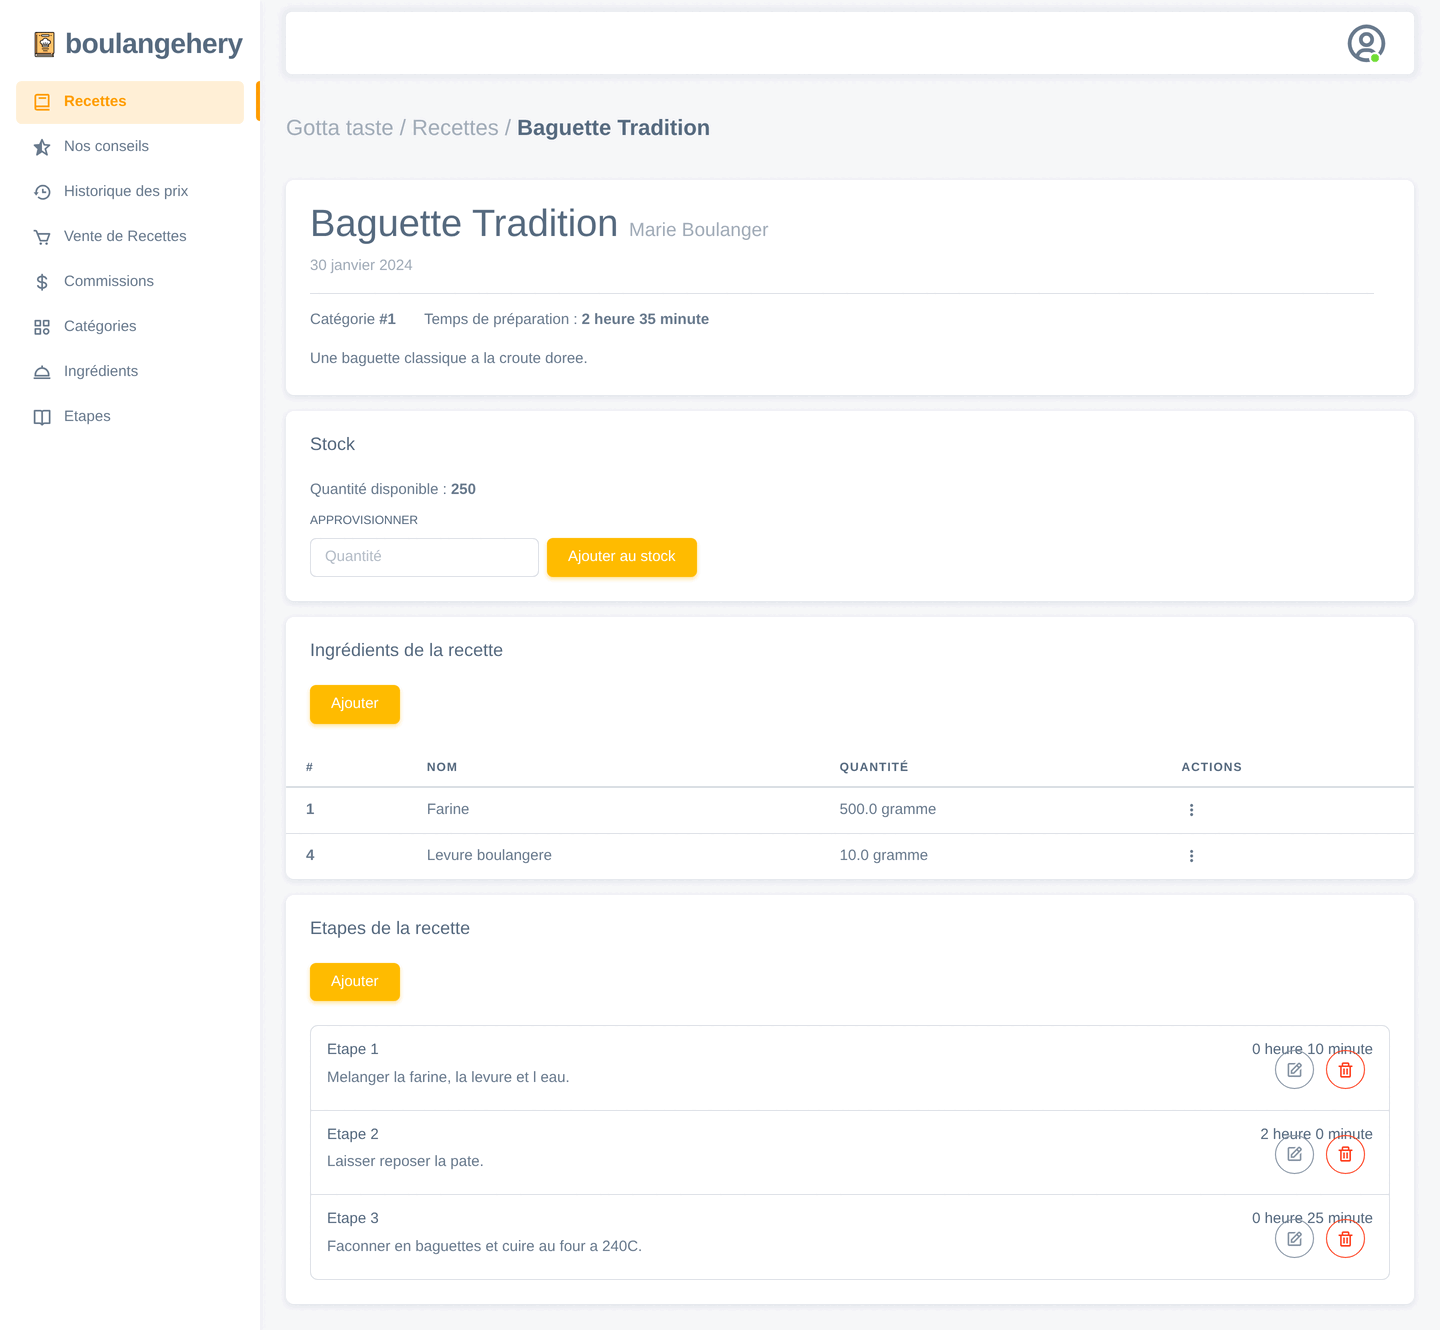
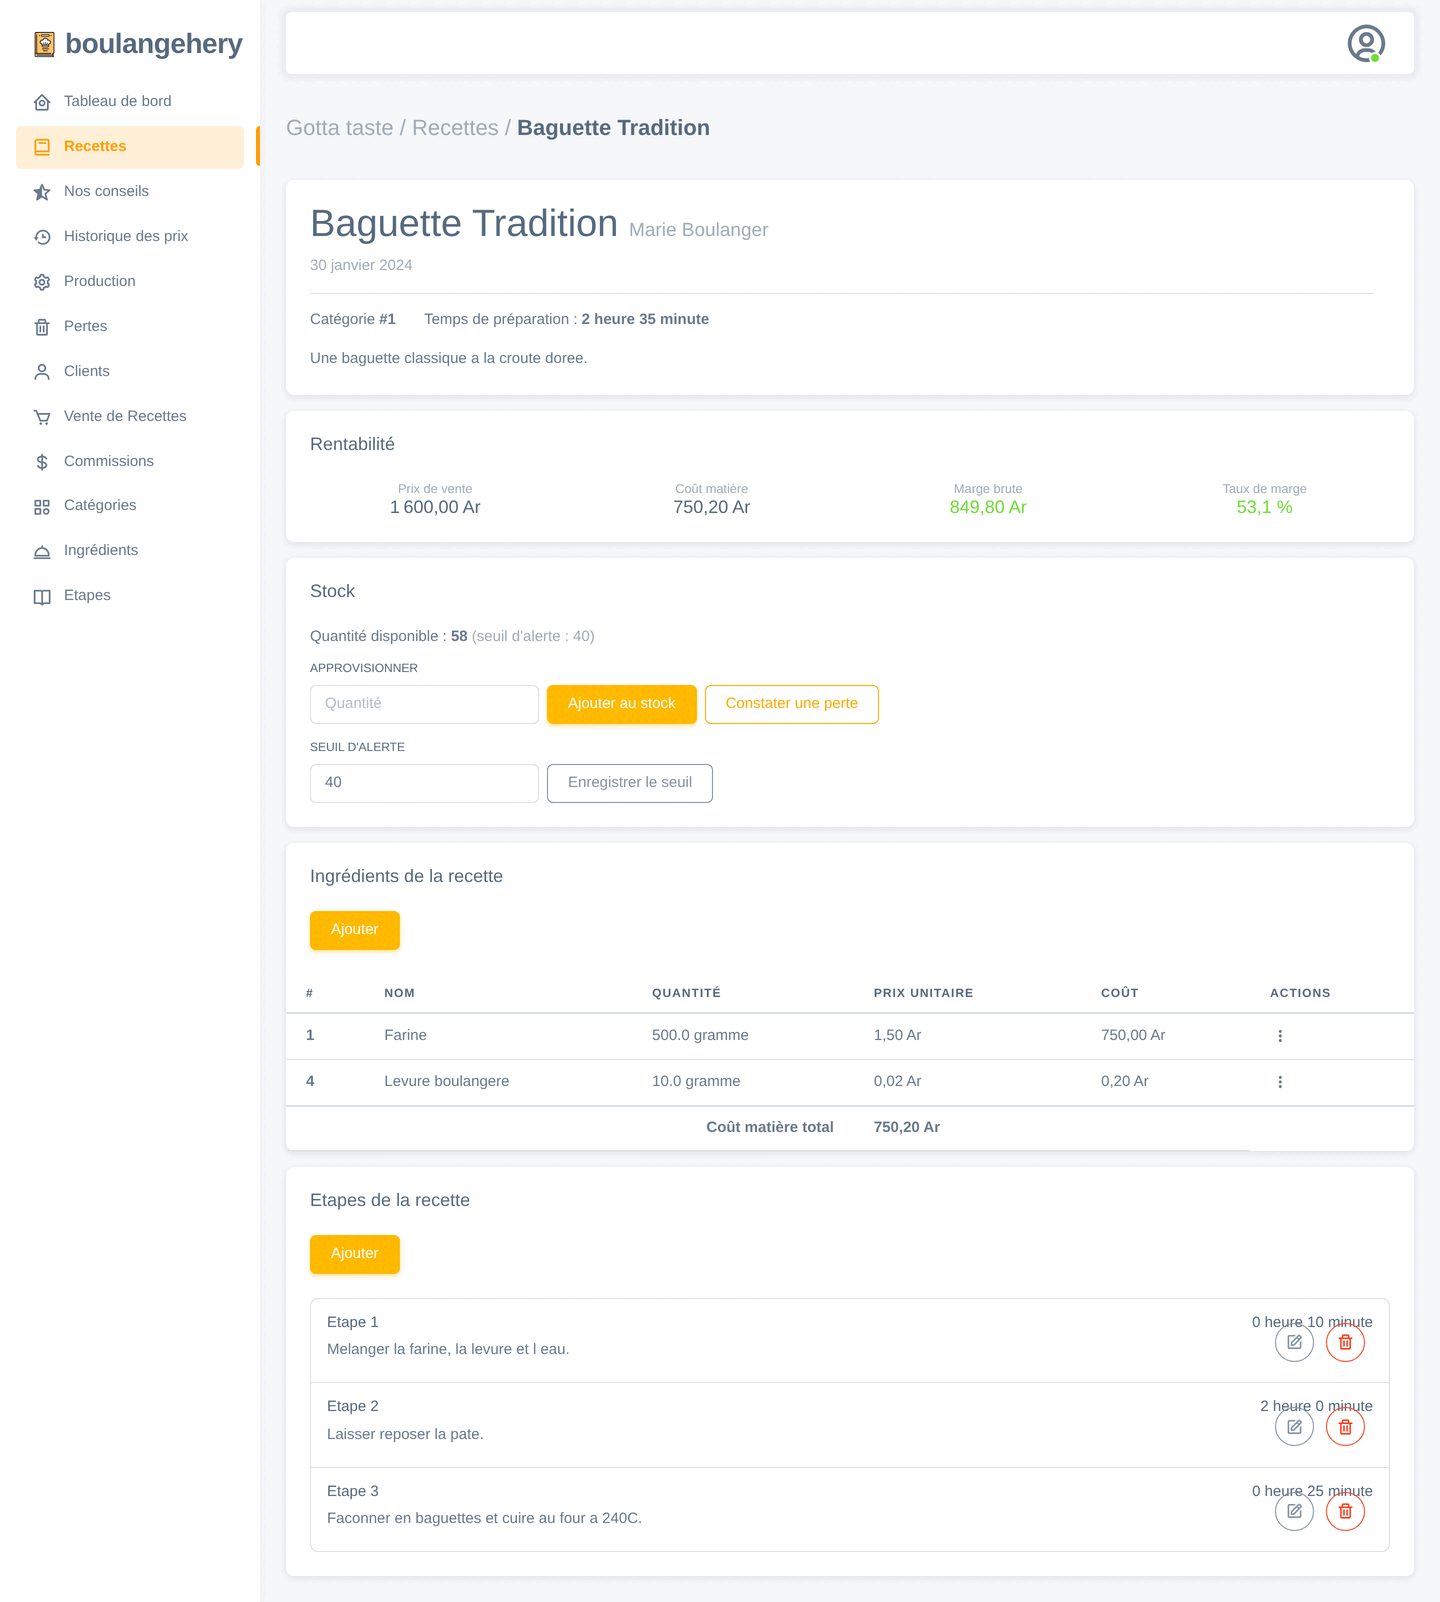
Docs: document the dashboard, roles and the new features
Covers the dashboard, material cost and margin, production and raw
material stock, losses and stock thresholds, customers, receipts, CSV
exports, photo uploads, sorting and paging, and the three roles with the
table of what each may reach.

Setup gains the picture directory and the role-aware UserAdmin commands;
the database section gains the new tables, the rules the triggers now
carry and migrations 008 to 014. Screenshots retaken from the running
application on the current demo data.

diff --git a/README.md b/README.md
@@ -12,11 +12,12 @@ PostgreSQL triggers rather than by Java code.
 > The user interface and the source comments are in French. Everything in this
 > document is in English.
 
-![Recipe list](docs/screenshots/recipes.png)
+![Dashboard](docs/screenshots/dashboard.png)
 
 ## Contents
 
 - [Features](#features)
+- [Roles](#roles)
 - [Tech stack](#tech-stack)
 - [Getting started](#getting-started)
 - [User accounts](#user-accounts)
@@ -29,11 +30,34 @@ PostgreSQL triggers rather than by Java code.
 
 ## Features
 
+### Dashboard
+
+Everything the triggers compute all day was only readable one list at a time.
+The dashboard aggregates it in the database -- one query per indicator: revenue
+over the last seven days and per category, best sellers, commissions per seller,
+production, losses by reason, the thinnest margins, the recipes that fell to
+their alert threshold and the lowest raw materials.
+
+It follows the signed-in role rather than merely hiding tiles: a baker's request
+never computes revenue, a seller's never computes stock.
+
 ### Recipes and multi-criteria search
 
-Recipes carry a category, a flavour, a price, a picture, a creator and a
+Recipes carry a category, a flavour, a price, a picture, an author and a
 preparation time. The preparation time is **not** entered by hand: a trigger
-keeps it equal to the sum of the recipe's steps.
+keeps it equal to the sum of the recipe's steps, and the author is an account
+rather than a typed-in name.
+
+Each card also shows what the recipe **costs to make** and the margin it leaves:
+the ingredient prices and quantities were already stored but never multiplied. A
+`recipe_cost` view sums them, so the figure follows any change of price or
+composition without a trigger. On the demo data it immediately shows a brioche
+sold at a loss.
+
+The list serves six recipes at a time and sorts by name, price, margin, stock or
+date; sorting and paging keep the current search.
+
+![Recipe list](docs/screenshots/recipes.png)
 
 The search dialog combines every criterion at once — title, description,
 category, flavour, a set of required ingredients, preparation time range,
@@ -42,18 +66,42 @@ dropped from the generated SQL.
 
 ![Multi-criteria search](docs/screenshots/recipe-search.png)
 
-Creating and editing share one form; when the database refuses a value, the
-form comes back with what was typed and the reason.
+Creating and editing share one form -- including the photo, stored outside the
+WAR so a redeploy does not wipe it. When the database refuses a value, the form
+comes back with what was typed and the reason.
 
 ![Recipe form](docs/screenshots/recipe-form.png)
 
 ### Recipe details, stock and steps
 
-A recipe page shows its available stock with a replenishment form, its
-ingredients with quantities and units, and its ordered steps with their
-individual durations.
+A recipe page shows its profitability, its available stock with a replenishment
+form and an alert threshold, its ingredients with their unit prices and the cost
+each contributes, and its ordered steps with their individual durations.
 
 ![Recipe details](docs/screenshots/recipe-details.png)
+
+### Production and raw material stock
+
+Stock used to cover finished goods only, replenished by hand, and nothing linked
+"bake 200 baguettes" to the flour it consumes. Ingredients now carry their own
+stock, and a production order deducts every ingredient of the recipe before
+crediting the finished stock -- refusing the run, and naming the ingredient that
+is short, when the shelf cannot cover it.
+
+A production is insert-only: flour really left the shelf, so a mistake is
+corrected by a new entry rather than by rewriting history.
+
+![Production](docs/screenshots/production.png)
+
+### Losses and low-stock alerts
+
+Stock only ever went down through sales, so what goes in the bin at closing time
+stayed counted as available. Unsold, breakage, expiry and giveaways are recorded
+with their reason and deducted under the same rules as a sale, and every recipe
+can carry an alert threshold that the list, the recipe page and the dashboard
+flag.
+
+![Losses](docs/screenshots/losses.png)
 
 ### Reviews
 
@@ -69,7 +117,21 @@ Recording a sale is a single form. The database then computes the change due
 short or the stock insufficient, decrements the stock, and creates the seller's
 commission. Editing or deleting a sale replays all of it consistently.
 
+A sale names a customer from the customer list, or none at all for a counter
+sale. Every sale can be printed as a receipt, which shows the price actually
+charged that day even if the recipe has been repriced since.
+
 ![Sales](docs/screenshots/sales.png)
+
+![Receipt](docs/screenshots/receipt.png)
+
+### Customers
+
+Before, the "customer" column of the sales list pointed at application accounts,
+so the customers on screen were the employees. Customers are now their own
+records -- searchable, and protected from deletion while sales reference them.
+
+![Customers](docs/screenshots/clients.png)
 
 ### Commissions
 
@@ -81,6 +143,11 @@ gender, and totals the amount at the bottom.
 
 ![Commissions](docs/screenshots/commissions.png)
 
+Sales and commissions export to CSV with the criteria currently on screen:
+semicolon-separated with a UTF-8 BOM, which is what Excel expects in a French
+setup, and cells starting with `=`, `+`, `-` or `@` are neutralised so a
+spreadsheet treats them as text rather than formulas.
+
 ### Price history
 
 Every price change on a recipe is journalled automatically, with the previous
@@ -90,8 +157,8 @@ price, the new price and the day of the change.
 
 ### Reference data
 
-Categories, flavours, ingredients (with unit and unit price) and steps each have
-their own CRUD screen. Deleting a row that is still referenced is refused with a
+Categories, flavours, ingredients (with unit, unit price and raw-material stock)
+and steps each have their own CRUD screen. Deleting a row that is still referenced is refused with a
 readable message instead of a stack trace, and duplicates are rejected by unique
 constraints.
 
@@ -101,9 +168,25 @@ constraints.
 
 Browsing the catalogue (recipes, reviews, categories, ingredients, steps) is
 public. Everything else — any change, and the financial pages (sales,
-commissions, price history) — requires an account.
+commissions, price history) — requires an account and a role that allows it.
 
 ![Sign-in page](docs/screenshots/login.png)
+
+## Roles
+
+Access used to be all-or-nothing: any signed-in account could delete a recipe
+and read every commission. Accounts now carry one of three roles.
+
+| Role | Can reach |
+|---|---|
+| `ADMIN` | Everything |
+| `BOULANGER` | Recipes, steps, ingredients, categories, stock, production, losses, price history |
+| `VENDEUR` | Sales, customers, commissions, exports, receipts |
+
+`AuthFilter` is the single choke point: it maps each path to the roles allowed
+on it, and a path missing from that map is admin-only, which closes a new page
+by default. The menu and the action buttons follow the same rule, so nothing on
+screen leads to a 403.
 
 ## Tech stack
 
@@ -184,6 +267,10 @@ export CATALINA_OPTS="-Dboulangerie.db.url=jdbc:postgresql://localhost:5432/gott
 Outside a container (command-line tools, tests), `dao.DBConnection` falls back to
 `DriverManager` with the same settings, so the environment variables are enough.
 
+Uploaded recipe photos are written outside the WAR so a redeploy does not wipe
+them: `boulangerie.picture.dir` if set, otherwise
+`<catalina.base>/boulangerie-pictures`. They are served under `/pictures/`.
+
 ### 3. Build and deploy
 
 On Windows:
@@ -230,7 +317,9 @@ classes (`temp\WEB-INF\classes`, produced by `deploy.bat`) and the database
 configuration in the environment:
 
 ```
-java -cp "temp\WEB-INF\classes;lib\*" tools.UserAdmin create <first> <last> <email> <password>
+java -cp "temp\WEB-INF\classes;lib\*" tools.UserAdmin create <first> <last> <email> <password> [ADMIN|BOULANGER|VENDEUR]
+java -cp "temp\WEB-INF\classes;lib\*" tools.UserAdmin role <email> <ADMIN|BOULANGER|VENDEUR>
+java -cp "temp\WEB-INF\classes;lib\*" tools.UserAdmin list
 java -cp "temp\WEB-INF\classes;lib\*" tools.UserAdmin hash <password>
 java -cp "temp\WEB-INF\classes;lib\*" tools.UserAdmin rehash
 ```
@@ -239,9 +328,10 @@ java -cp "temp\WEB-INF\classes;lib\*" tools.UserAdmin rehash
 migration 004). Run it once. Plain-text passwords are always rejected at sign-in,
 so an unconverted account cannot log in.
 
-The demo data creates three accounts whose passwords are written in clear text
-in the comments of `3-data.sql` — for instance `marie.boulanger@example.com` /
-`pain123`. **They are meant for local use only and must never reach production.**
+The demo data creates one account per role, with passwords written in clear text
+in the comments of `3-data.sql` — `marie.boulanger@example.com` / `pain123` is
+the `ADMIN`, the other two are a `BOULANGER` and a `VENDEUR`.
+**They are meant for local use only and must never reach production.**
 
 ## Verifying the database rules
 
@@ -256,7 +346,10 @@ psql -U postgres -d gotta_taste -v ON_ERROR_STOP=1 -f sql/tests/triggers_smoke_t
 
 It expects a database loaded with the demo data, and covers stock, sales, change
 due, commissions (including threshold and back-dated rules), price history,
-preparation time, unique constraints, cascade deletes and `RESTRICT` protections.
+preparation time, unique constraints, cascade deletes, `RESTRICT` protections,
+material cost, account roles, production and losses. It reasons in deltas and
+reads the current prices and commission rule rather than assuming the seeded
+values, so the demo data can grow without breaking it.
 
 This is the project's only automated test suite; there are no Java unit tests.
 
@@ -287,7 +380,7 @@ class plus its `<servlet>` and `<servlet-mapping>` entries.
 |---|---|
 | `dao` | One class per table: entity fields *and* JDBC access (`all`, `findById`, `search`, `create`, `update`, `delete`) |
 | `servlet` | HTTP entry points. `XxxServlet` lists and mutates, `FormXxxServlet` renders the create/edit form |
-| `util` | Typed request parameters, session helpers, HTML escaping, CSRF tokens, password hashing |
+| `util` | Typed request parameters, session helpers, HTML escaping, CSRF tokens, password hashing, money and CSV formatting, JSON for the charts, uploaded pictures |
 | `tools` | Command-line utilities |
 
 Servlets follow post/redirect/get: `doPost` writes then redirects. When a write
@@ -310,6 +403,10 @@ SQL entirely.
 | `recipe_sell.reste` | Change due, computed as `argent − combien × price`; a `CHECK` rejects a sale paid short |
 | `commission` | Created per sale from the rule in force at the sale date, above the rule's threshold; deleted with its sale |
 | `recipe_price_history` | One row per price change, dated the day of the change |
+| `ingredient_stock` | One row per ingredient, created with it |
+| `production` | Deducts every ingredient of the recipe, then credits the finished stock; refused, naming the ingredient, when the raw material is short |
+| `recipe_loss` | Unsold, breakage, expiry or giveaway; deducted from the finished stock, never beyond what is left |
+| `recipe_cost` (view) | Material cost per recipe: quantity × unit price, following prices and composition |
 
 Refusals are `RAISE EXCEPTION`s whose message is written for the end user and
 displayed as-is.
@@ -338,6 +435,11 @@ Each kind of failure has its own exception and its own outcome:
   Switch the cookie to `secure` in `web.xml` once the app is served over HTTPS.
 - **SQL**: every query is a `PreparedStatement`; no string concatenation of
   user input.
+- **Uploads**: the browser's file name is never reused -- only its extension,
+  and only from a known image list; `PictureServlet` serves generated names
+  alone, refuses anything else without touching the disk, and an oversized
+  upload is answered `400` rather than `500`.
+- **Roles**: enforced in `AuthFilter`, closed by default for unlisted paths.
 - **Errors**: neutral pages, details in the server log only.
 
 ## Database
@@ -353,7 +455,11 @@ Each kind of failure has its own exception and its own outcome:
 | `vendeur` | Sellers |
 | `recipe_sell` | Sales |
 | `commission`, `commission_change` | Commissions earned, and the rules that produce them |
-| `recipe_stock` | Available stock per recipe |
+| `recipe_stock` | Available stock per recipe, with its alert threshold |
+| `ingredient_stock` | Raw material available per ingredient |
+| `production` | Production runs |
+| `recipe_loss` | Stock written off, with its reason |
+| `client` | Customers |
 | `recipe_price_history` | Price changes |
 
 Deletion policies are explicit: a recipe's own parts (steps, ingredient links,
@@ -376,6 +482,13 @@ be safely re-runnable.
 | 005 | One stock row per recipe, sales editable/deletable without corrupting stock or commissions |
 | 006 | Unique constraints (emails, category and flavour names, ingredient+unit, step number per recipe) |
 | 007 | `ingredient.price` as `NUMERIC(10,2)` (the old `INT` rounded unit prices) |
+| 008 | `recipe_cost` view: material cost per recipe |
+| 009 | Indexes on foreign keys and the columns searches filter on |
+| 010 | Account roles (ADMIN, BOULANGER, VENDEUR) |
+| 011 | Raw-material stock and production orders |
+| 012 | Losses (unsold, breakage…) and stock alert threshold |
+| 013 | Recipe author linked to a user account |
+| 014 | `client` table, and sales linked to it |
 
 Any change to the schema or the triggers must update the current-state scripts
 **and** add a numbered migration **and** a row in `sql/migrations/README.md`.
@@ -388,6 +501,7 @@ src/servlet/      servlets and the three filters
 src/util/         parameters, session, HTML escaping, CSRF, password hashing
 src/tools/        UserAdmin command-line tool
 web/              JSP pages and static assets
+web/assets/js/    dashboard.js — the dashboard charts
 web/META-INF/     context.xml — the JDBC connection pool
 web.xml           servlet mappings, filters, session policy, error pages
 sql/              schema, triggers, demo data
@@ -408,6 +522,7 @@ deployed — `deploy.bat` only packages `web/`.
 
 | Path | Method | Access | Purpose |
 |---|---|---|---|
+| `/dashboard` | GET | signed in | Indicators and charts, adapted to the role |
 | `/recipe` | GET / POST | public / signed in | Recipe list and search / create, update, delete |
 | `/recipe-details` | GET | public | One recipe: stock, ingredients, steps |
 | `/form-recipe` | GET | signed in | Recipe form |
@@ -416,10 +531,17 @@ deployed — `deploy.bat` only packages `web/`.
 | `/review`, `/form-review` | GET / POST | public / signed in | Reviews |
 | `/category`, `/form-category` | GET / POST | public / signed in | Categories |
 | `/ingredient`, `/form-ingredient` | GET / POST | public / signed in | Ingredients |
-| `/recipe-stock` | POST | signed in | Replenish a recipe's stock |
-| `/recipe-sell`, `/form-recipe-sell` | GET / POST | signed in | Sales |
-| `/commission` | GET | signed in | Commissions and totals |
-| `/recipe-price-history` | GET | signed in | Price changes |
+| `/recipe-stock` | POST | baker | Replenish a recipe's stock, set its alert threshold |
+| `/ingredient-stock` | POST | baker | Replenish a raw material |
+| `/production`, `/form-production` | GET / POST | baker | Production runs |
+| `/recipe-loss`, `/form-recipe-loss` | GET / POST | baker | Losses |
+| `/pictures/*` | GET | public | Uploaded recipe photos |
+| `/recipe-sell`, `/form-recipe-sell` | GET / POST | seller | Sales |
+| `/commission` | GET | seller | Commissions and totals |
+| `/client`, `/form-client` | GET / POST | seller | Customers |
+| `/export` | GET | seller | CSV of sales or commissions |
+| `/receipt` | GET | seller | Printable receipt for one sale |
+| `/recipe-price-history` | GET | baker | Price changes |
 | `/form-login` | GET | public | Sign-in form |
 | `/login` | POST | public | Sign in (and sign out, `action=logout`) |
 
